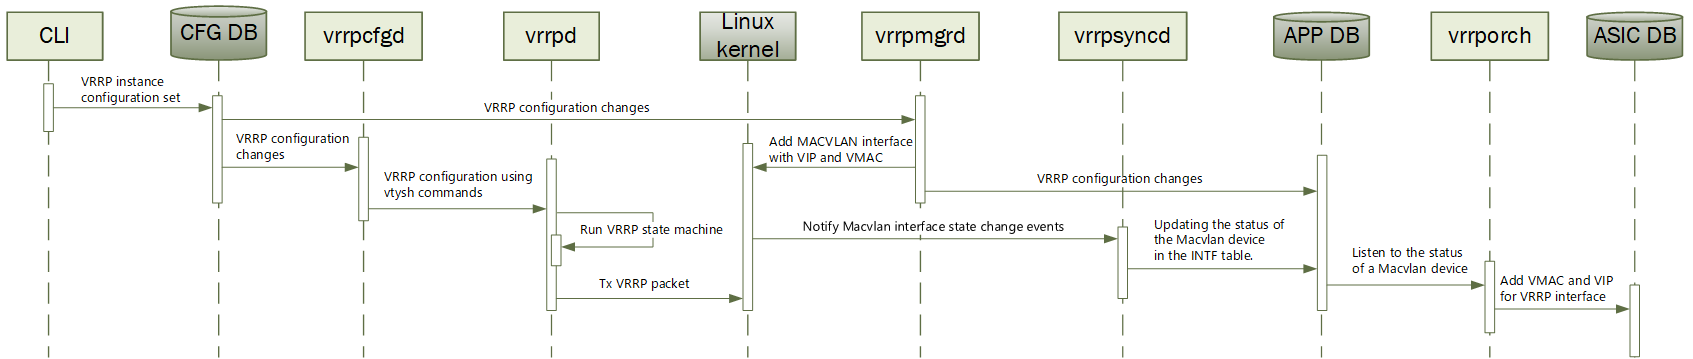
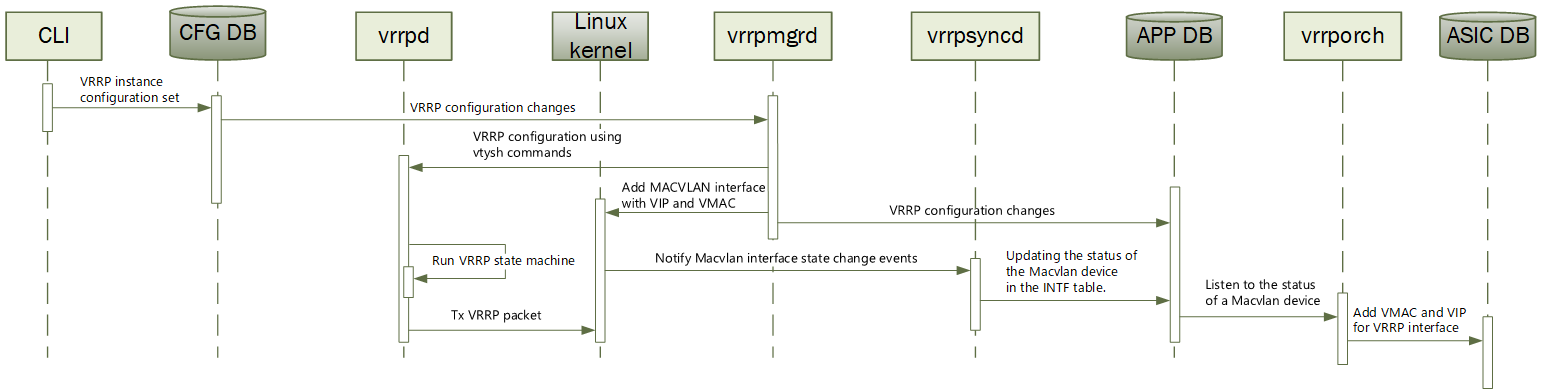
Modifying the HLD based on the review comments.

Changed region(s): [[0.0, 0.0, 1.0, 0.9192], [0.4971, 0.4903, 0.7767, 0.5822], [0.7767, 0.429, 0.8078, 0.4596]]

diff --git a/doc/vrrp/VRRP_Adaptation_HLD.md b/doc/vrrp/VRRP_Adaptation_HLD.md
@@ -23,6 +23,7 @@
       - [Operating environment](#operating-environment)
       - [Scalability Requirements](#scalability-requirements)
       - [Container](#container)
+        - [VRRP container](#vrrp-container)
         - [BGP container](#bgp-container)
         - [SWSS container](#swss-container)
       - [CoPP Configurations](#copp-configurations)
@@ -207,28 +208,28 @@ Since support for placing macvlan devices into protodown was not added to Linux 
 
 Add a new VRRP container to host VRRP protocol operations. We control whether the VRRP feature is enabled through the FEATURE table in Config DB, which is disabled by default.
 
-vrrpcfgd: 
-  - Subscribes to CONFIG_DB tables, parsing configurations and passes to vrrpd by using FRR CLI commands. 
-
 vrrpd: 
   - Responsible for all VRRP protocol related calculations. VRRP packets are sent and received in vrrpd and states are updated accordingly.
   - Match VRRP instance tracking interface and recalculate priority.
-
-zebra:
-  - Provide an API for vrrpd to update kernel Macvlan device state.
-  - Listen for kernel interface state change events and notify vrrpd.
 
 vrrpmgrd: 
   - Listens to VRRP create, delete and parameter change in CONFIG_DB. Complete the following tasks:
     - Add/del Linux Macvlan device to kernel. The Macvlan device name starting with 'Vrrp4-' or 'Vrrp6-'.
     - Config virtual MAC to Macvlan device;
     - Add/del VIP to Macvlan device;
-    - Update VRRP instance configuration to the APPL DB.
+    - Update VRRP instance configuration to the APPL DB;
+    - Update VRRP instance configuration to vrrpd by using vtysh commands.
 
 vrrpsyncd: 
   - Complete the following tasks:
     - Listen for kernel Macvlan device state change events, The state of the Macvlan device here determines the Master/Backup state of the VRRP instance, where up represents Master and down represents Backup.
     - Update the kernel Macvlan device state to the APPL DB.
+
+##### BGP container
+
+zebra:
+  - Provide an API for vrrpd to update kernel Macvlan device state.
+  - Listen for kernel interface state change events and notify vrrpd.
 
 ##### SWSS container
 
@@ -265,7 +266,7 @@ VRRP
 
 Producer: config manager
 
-Consumer: vrrpmgrd and vrrpcfgd
+Consumer: vrrpmgrd
 
 Description: New table that stores VRRP configuration for per interface + VRID.
 ```
@@ -282,7 +283,7 @@ admin_status          = "up" | "down"                 ; String denoting the stat
 version               = vrrp_version                  ; VRRP version. Value is 2 or 3. Default is 3
 preempt               = "enabled"/"disabled"          ; VRRP pre-emption is enabled? Default is enabled
 track_interface       = interface_name                ; This is a list of configured tracking interfaces
-priority_decrement    = 2DIGIT                        ; Specifies how much to decrement the priority of the VRRP instance if the tracking interface goes down.
+priority_decrement    = 2DIGIT                        ; Specifies how much to decrement the priority of the VRRP instance if the tracking interface goes down, Default is 20
 ```
 Example:-
 ```
@@ -380,21 +381,18 @@ admin@sonic:~$ redis-cli -n 1 hgetall "ASIC_STATE:SAI_OBJECT_TYPE_ROUTER_INTERFA
 
 ![VRRP ADD/DEL VRRP instance Flows](images/VRRP_Config_Instance_Flow.png)
 
-vrrpcfgd:
+vrrpmgrd:
   - Listens to VRRP create, delete and parameter change in CONFIG DB
-  - Update changes by using vtysh commands
+  - Upon change
+    - Add/del VRRP instance corresponding Macvlan device to kernel with IPs and state.
+    - Updates VRRP instance configuration to the APPL DB, such as Macvlan device name and Vip.
+    - Update changes to vrrpd by using vtysh commands
 
 vrrpd:
   - Listens to VRRP create, delete and parameter change in vrrpcfgd
   - Run VRRP state machine
     - For VRRP instances state transition to Master, set the Macvlan device into protodown off
     - For VRRP instances state transition to non-Master, set the Macvlan interface into protodown on
-
-vrrpmgrd:
-  - Listens to VRRP create, delete and parameter change in CONFIG DB
-  - Upon change
-    - Add/del VRRP instance corresponding Macvlan device to kernel with IPs and state.
-    - Updates VRRP instance configuration to the APPL DB, such as Macvlan device name and Vip.
 
 vrrpsyncd:
   - Listens to Macvlan interface programming in kernel. 
